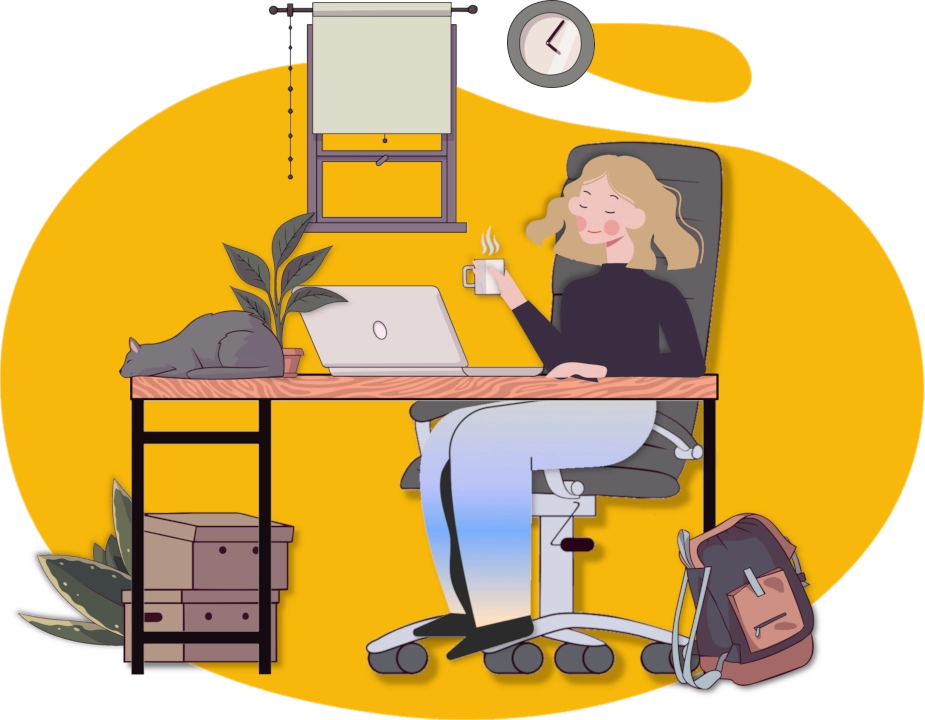
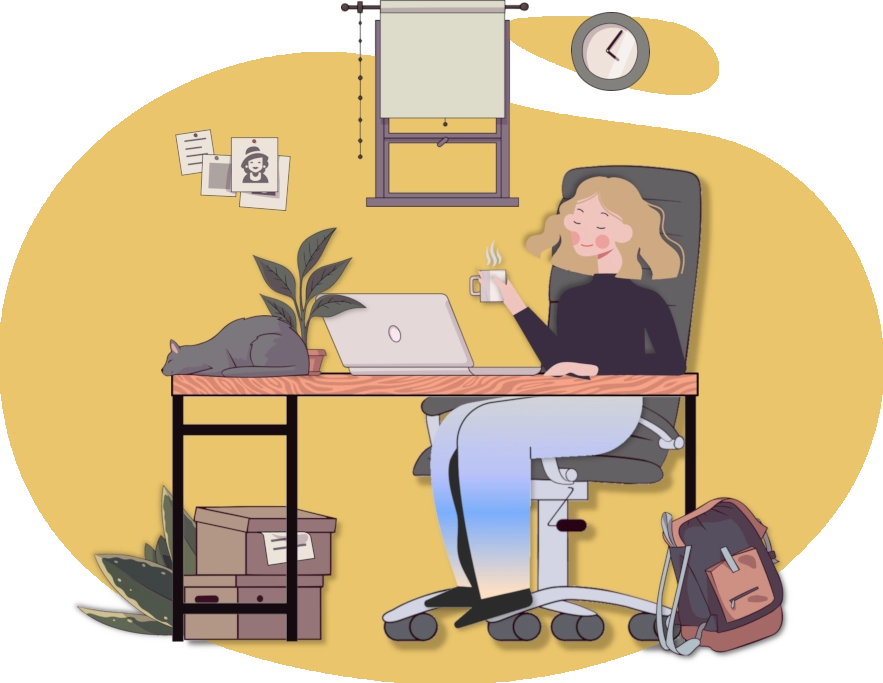
Style: change background color for all pages + color navbar + more padding for page title

diff --git a/src/components/ProjectsContent.js b/src/components/ProjectsContent.js
@@ -34,7 +34,7 @@ const ProjectsContent = () => {
 
   const ChakraCarousel = chakra(Carousel);
   return (
-    <SectionContainer background="#F7F7FF" sectionTitle="Projects">
+    <SectionContainer background="#DAD7CD" sectionTitle="Projects">
       {useCarousel ? (
         <ChakraCarousel responsive={responsive} height={{ lg: '100%' }} p={10} showDots centerMode>
           {projects.map((project) => (

diff --git a/src/components/ContactContent.js b/src/components/ContactContent.js
@@ -7,7 +7,7 @@ const ContactContent = () => {
   return (
     <SectionContainer
       background={
-        'url("/images/leftHand.webp") no-repeat bottom left, url("/images/rightHand.webp") no-repeat top right, #F9EBE0'
+        'url("/images/leftHand.webp") no-repeat bottom left, url("/images/rightHand.webp") no-repeat top right, #E8E8E4'
       }
       sectionTitle="Contact"
     >

diff --git a/src/components/HomeContent.js b/src/components/HomeContent.js
@@ -4,7 +4,7 @@ import SectionContainer from './SectionContainer';
 import ActionButtons from './ActionButtons';
 
 const HomeContent = () => (
-  <SectionContainer background="lightGray">
+  <SectionContainer background="#E8E8E4">
     <Grid
       height={{ xl: '100%' }}
       templateColumns={{ base: 'repeat(1, 1fr)', lg: 'repeat(2, 1fr)', xl: 'repeat(3, 1fr)' }}

diff --git a/src/components/AboutContent.js b/src/components/AboutContent.js
@@ -16,7 +16,7 @@ import ActionButtons from './ActionButtons';
 import aboutSections from '../data/aboutSections';
 
 const AboutContent = () => (
-  <SectionContainer background="#F0F7F4" sectionTitle="About">
+  <SectionContainer background="#DAD7CD" sectionTitle="About">
     <SimpleGrid
       columns={{ base: 1, xl: 2 }}
       height={{ xl: '100%' }}

diff --git a/src/components/SkillsContent.js b/src/components/SkillsContent.js
@@ -8,7 +8,7 @@ const firstGroup = skills.slice(0, 3);
 const secondGroup = skills.slice(-1);
 
 const SkillsContent = () => (
-  <SectionContainer background="#F0EFF4" sectionTitle="Skills" fullWidth>
+  <SectionContainer background="#E8E8E4" sectionTitle="Skills" fullWidth>
     <Box height={{ xl: '100%' }}>
       {/* Banner */}
       <Box

diff --git a/src/components/NavBar.js b/src/components/NavBar.js
@@ -24,7 +24,9 @@ const NavBar = () => {
   return (
     <>
       <Box
-        bg={useColorModeValue('gray.100', 'gray.900')}
+        bg={useColorModeValue('#C4C1BB', 'gray.900')}
+        boxShadow="0px 4px 22px -2px rgba(10,10,8,0.43)
+        "
         px={{ base: 4, lg: 8 }}
         position="fixed"
         width="100%"

diff --git a/src/components/SectionContainer.js b/src/components/SectionContainer.js
@@ -8,7 +8,7 @@ const SectionContainer = ({ children, background, sectionTitle, fullWidth }) => 
     <Box
       height={{ xl: '100%' }}
       minHeight={{ base: '100%' }}
-      py="70px"
+      py="90px"
       px={paddingX}
       className="SectionContainer"
       id={sectionTitle}
